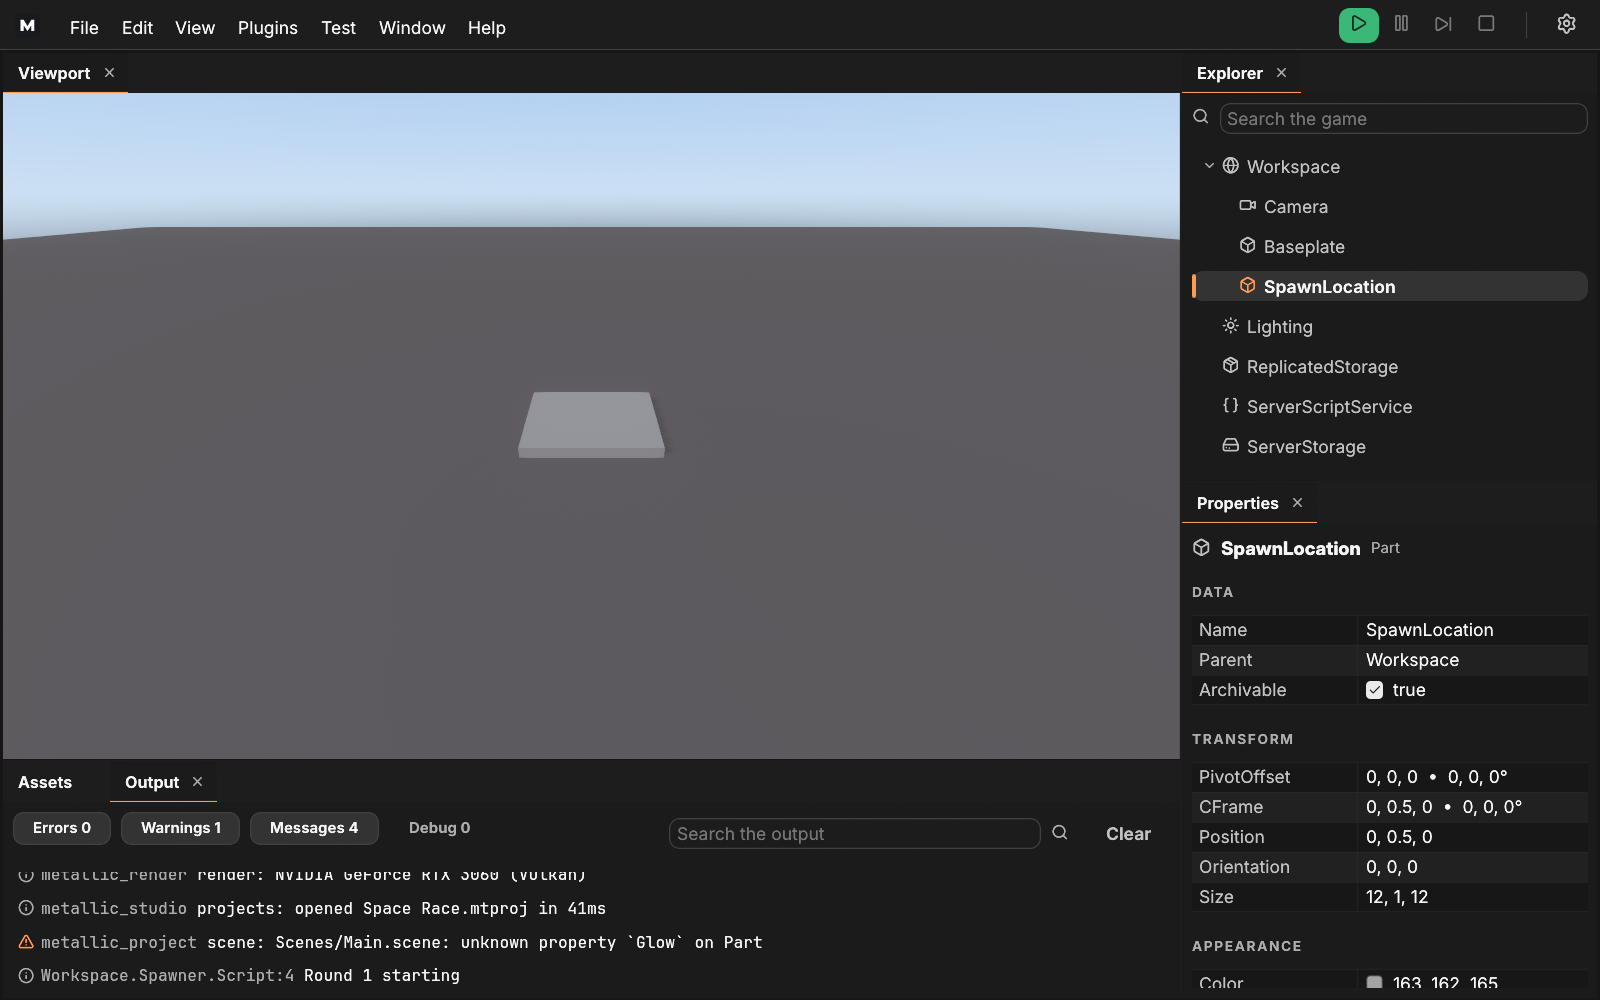
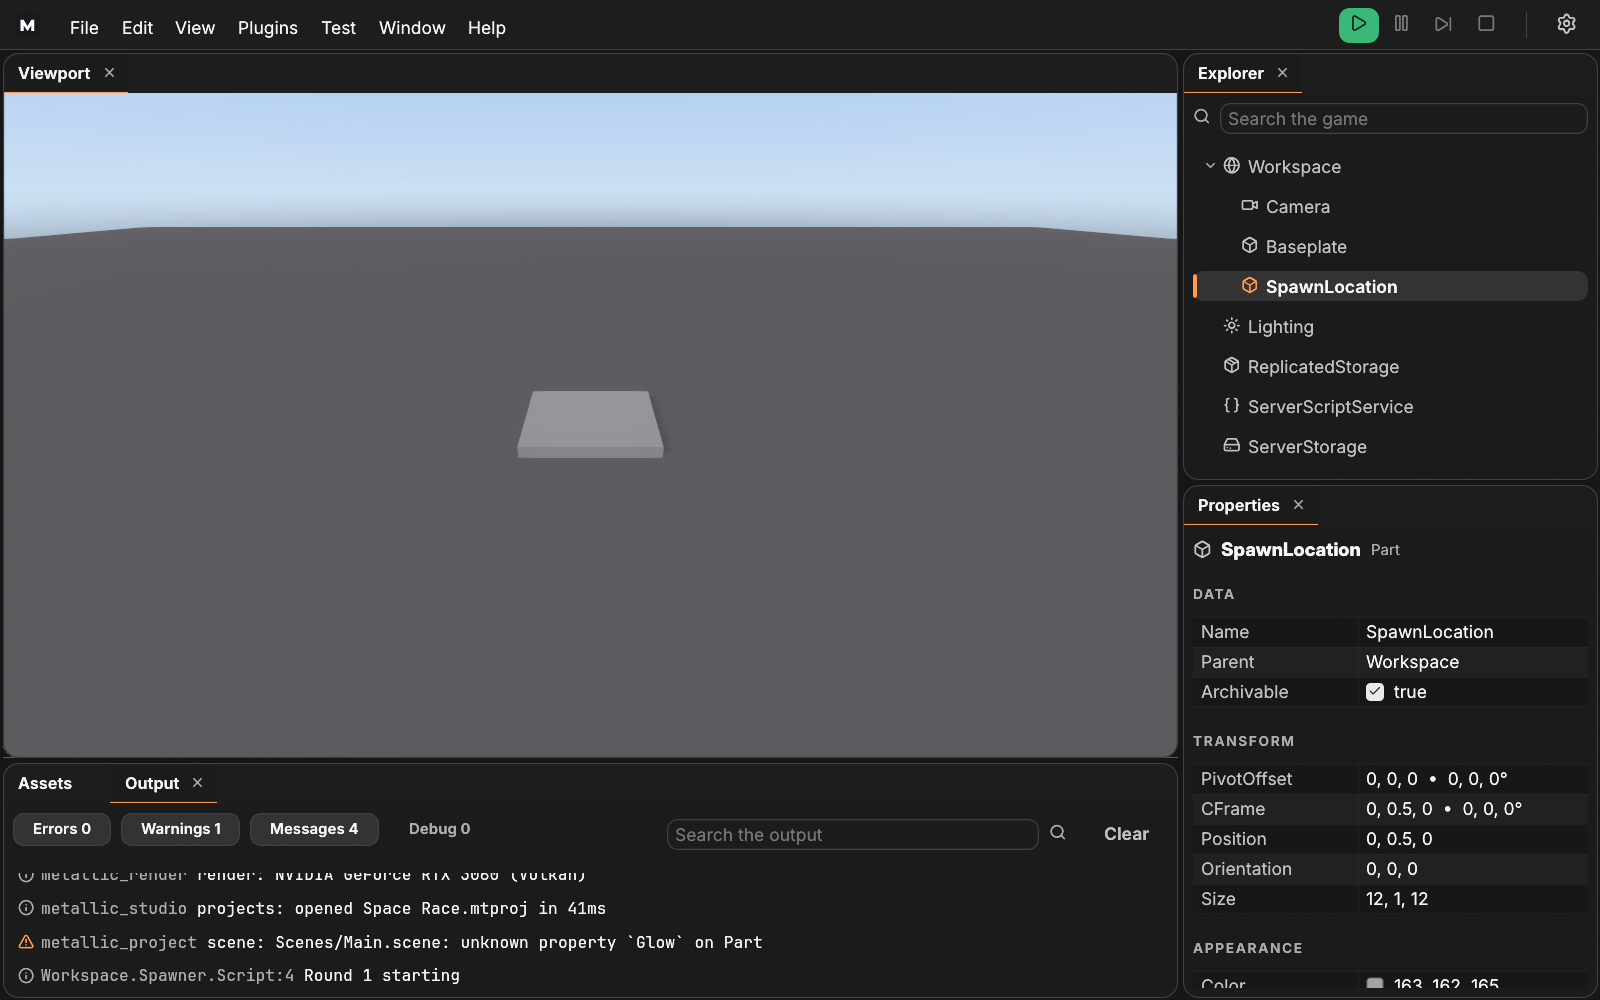
studio: panel borders like the Settings window's, with a setting (#262)

diff --git a/apps/studio/src/dock/mod.rs b/apps/studio/src/dock/mod.rs
@@ -10,6 +10,8 @@
 //!   only when it changed and nothing is being dragged.
 //! - **Dock guides** (#237): while a tab is dragged, squares in the middle of the area under the pointer say where it
 //!   docks, and a drop anywhere but a square or a tab bar leaves the layout as it was ([`guides`]).
+//! - **Panel borders** (#262): with Settings → Appearance → Panel borders on, each group of tabs is outlined with the
+//!   Settings window's border and rounded corners, a little apart from the next.
 
 pub(crate) mod guides;
 pub mod layout;
@@ -20,7 +22,7 @@ use egui::{
     Align2, Color32, CornerRadius, Id, LayerId, Order, Pos2, Rect, Response, Role, Sense, Stroke, Ui, UiBuilder,
     WidgetInfo, pos2, vec2,
 };
-use egui_tiles::{Container, LinearDir, TabState, Tile, TileId, Tiles, Tree, UiResponse};
+use egui_tiles::{Container, ContainerKind, LinearDir, ResizeState, TabState, Tile, TileId, Tiles, Tree, UiResponse};
 use serde::{Deserialize, Serialize};
 
 use crate::editor::EditorState;
@@ -342,8 +344,12 @@ impl Dock {
         // guides or a tab bar say (or nowhere).
         let before = (drag.is_some() && released).then(|| self.tree.clone());
         let colors = current_colors(&ctx);
+        let borders = cx.settings.appearance.panel_borders;
+        let groups = tab_groups(&self.tree);
         let mut behavior = DockBehavior {
             panels: self.panels,
+            borders,
+            groups,
             cx,
             focus: DockFocus {
                 focused: self.focus.focused,
@@ -450,6 +456,10 @@ struct DockBehavior<'a, 'b> {
     close: Vec<TileId>,
     /// The theme's colours: the behaviour's colour hooks are not given a context.
     colors: crate::theme::Colors,
+    /// Whether groups of tabs are outlined (#262).
+    borders: bool,
+    /// The groups of tabs, which the borders outline.
+    groups: Vec<TileId>,
     /// Each tab drawn this frame and where: where a dragged tab goes in a bar it is dropped on.
     tabs: Vec<(TileId, Rect)>,
 }
@@ -479,6 +489,54 @@ const TAB_GAP: f32 = 6.0;
 const CLOSE_SIZE: f32 = 18.0;
 /// The active tab's accent underline (#255: 1 px, thinner than the 3 px bars that mark selected list items).
 pub(crate) const TAB_LINE: f32 = 1.0;
+
+/// The space between outlined groups of tabs (#262).
+const BORDER_GAP: f32 = space::S2;
+/// The points an outline's rounded corner is drawn with.
+const CORNER_STEPS: usize = 8;
+
+/// Every group of tabs in `tree`: what the panel borders outline.
+fn tab_groups(tree: &Tree<PanelId>) -> Vec<TileId> {
+    tree.tiles
+        .iter()
+        .filter(|(_, tile)| matches!(tile, Tile::Container(container) if container.kind() == ContainerKind::Tabs))
+        .map(|(&id, _)| id)
+        .collect()
+}
+
+/// Outlines `rect` as the Settings window is outlined: rounded by `radius`, with the square corners outside the
+/// rounding covered in `ground` (the tab bar and the panel under it are drawn square), then a 1 px `edge`.
+fn paint_border(painter: &egui::Painter, rect: Rect, radius: f32, ground: Color32, edge: Color32) {
+    let radius = radius.min(rect.width() / 2.0).min(rect.height() / 2.0);
+    // Each corner: the square's corner, and the centre its arc turns around, as signs from that centre.
+    let corners = [
+        (rect.left_top(), vec2(1.0, 1.0)),
+        (rect.right_top(), vec2(-1.0, 1.0)),
+        (rect.right_bottom(), vec2(-1.0, -1.0)),
+        (rect.left_bottom(), vec2(1.0, -1.0)),
+    ];
+    for (corner, inward) in corners {
+        let centre = corner + inward * radius;
+        // A fan from the square's corner over the arc: the arc is all in view from there.
+        let mut mesh = egui::Mesh::default();
+        mesh.colored_vertex(corner, ground);
+        for step in 0..=CORNER_STEPS {
+            let angle = std::f32::consts::FRAC_PI_2 * step as f32 / CORNER_STEPS as f32;
+            let at = centre - vec2(inward.x * angle.cos(), inward.y * angle.sin()) * radius;
+            mesh.colored_vertex(at, ground);
+        }
+        for step in 1..=CORNER_STEPS as u32 {
+            mesh.add_triangle(0, step, step + 1);
+        }
+        painter.add(mesh);
+    }
+    painter.rect_stroke(
+        rect,
+        CornerRadius::same(radius as u8),
+        Stroke::new(size::BORDER, edge),
+        egui::StrokeKind::Inside,
+    );
+}
 
 /// Draws one tab (its title and close button; no icon, #255) filling the bar's height, interacting as `id`. Returns
 /// its response and whether its close button was clicked.
@@ -598,7 +656,24 @@ impl egui_tiles::Behavior<PanelId> for DockBehavior<'_, '_> {
     }
 
     fn gap_width(&self, _style: &egui::Style) -> f32 {
-        2.0
+        if self.borders { BORDER_GAP } else { 2.0 }
+    }
+
+    fn resize_stroke(&self, style: &egui::Style, resize_state: ResizeState) -> Stroke {
+        match resize_state {
+            // Outlined groups stand apart on the background; without borders the gap is the tab bars' colour.
+            ResizeState::Idle if self.borders => Stroke::NONE,
+            ResizeState::Idle => Stroke::new(self.gap_width(style), self.colors.palette.header),
+            ResizeState::Hovering => style.visuals.widgets.hovered.fg_stroke,
+            ResizeState::Dragging => style.visuals.widgets.active.fg_stroke,
+        }
+    }
+
+    fn paint_on_top_of_tile(&self, painter: &egui::Painter, _style: &egui::Style, tile_id: TileId, rect: Rect) {
+        if self.borders && self.groups.contains(&tile_id) {
+            let p = self.colors.palette;
+            paint_border(painter, rect, f32::from(radius::PANEL), p.bg, p.border);
+        }
     }
 
     fn tab_bar_color(&self, _visuals: &egui::Visuals) -> Color32 {
@@ -711,6 +786,46 @@ mod tests {
             Some(Tile::Container(Container::Linear(linear))) => (linear.dir, linear.children.clone()),
             _ => panic!("{id}'s bar is not in a split"),
         }
+    }
+
+    #[test]
+    fn panel_borders_outline_each_group_of_tabs_with_rounded_corners() {
+        let dock = Dock::in_memory(PANELS);
+        // Viewport, Assets and Output, Explorer, Properties.
+        assert_eq!(tab_groups(dock.tree()).len(), 4);
+
+        let ctx = egui::Context::default();
+        let rect = Rect::from_min_size(pos2(10.0, 10.0), vec2(200.0, 100.0));
+        let (ground, edge) = (Color32::RED, Color32::BLUE);
+        let mut output = ctx.run_ui(egui::RawInput::default(), |ui| {
+            paint_border(ui.painter(), rect, 12.0, ground, edge);
+        });
+        let shapes: Vec<&egui::Shape> = output.shapes.iter().map(|clipped| &clipped.shape).collect();
+        let corners: Vec<&egui::Mesh> = shapes
+            .iter()
+            .filter_map(|shape| match shape {
+                egui::Shape::Mesh(mesh) => Some(&**mesh),
+                _ => None,
+            })
+            .collect();
+        assert_eq!(corners.len(), 4, "one cover per corner");
+        for mesh in corners {
+            assert!(mesh.vertices.iter().all(|vertex| vertex.color == ground));
+            // Each stays in its corner's 12 × 12 square.
+            let bounds = mesh.calc_bounds();
+            assert!(bounds.width() <= 12.01 && bounds.height() <= 12.01, "{bounds:?}");
+            assert!(rect.expand(0.01).contains_rect(bounds));
+        }
+        let outline = shapes.iter().find_map(|shape| match shape {
+            egui::Shape::Rect(outline) => Some(outline),
+            _ => None,
+        });
+        let outline = outline.expect("an outline");
+        assert_eq!(outline.rect, rect);
+        assert_eq!(outline.corner_radius, CornerRadius::same(12));
+        assert_eq!(outline.stroke, Stroke::new(size::BORDER, edge));
+        // epaint checks the frame's font texture was taken.
+        output.textures_delta.clear();
     }
 
     #[test]

diff --git a/apps/studio/src/settings/mod.rs b/apps/studio/src/settings/mod.rs
@@ -58,6 +58,8 @@ pub struct Appearance {
     pub ui_scale: f32,
     /// Whether fades and eases play.
     pub motion: MotionPreference,
+    /// Whether each group of docked panels is outlined, as the Settings window is (#262).
+    pub panel_borders: bool,
 }
 
 impl Default for Appearance {
@@ -68,6 +70,7 @@ impl Default for Appearance {
             high_contrast: false,
             ui_scale: 1.0,
             motion: MotionPreference::default(),
+            panel_borders: true,
         }
     }
 }
@@ -225,6 +228,7 @@ impl StudioSettings {
                 |v| v.as_str().and_then(MotionPreference::parse),
                 &mut a.motion,
             );
+            read(appearance, "panel_borders", Value::as_bool, &mut a.panel_borders);
         }
         if let Some(rendering) = section("rendering") {
             settings.rendering = rendering_from(rendering);
@@ -252,6 +256,7 @@ impl StudioSettings {
             let scale = (f64::from(a.ui_scale) * 100.0).round() / 100.0;
             appearance.insert("ui_scale".into(), Value::Float(scale));
             appearance.insert("reduce_motion".into(), Value::String(a.motion.as_str().into()));
+            appearance.insert("panel_borders".into(), Value::Boolean(a.panel_borders));
         });
         with_section(&mut document, "rendering", |rendering| {
             for key in RENDERING_KEYS {
@@ -390,6 +395,7 @@ mod tests {
             high_contrast: true,
             ui_scale: 1.25,
             motion: MotionPreference::Reduced,
+            panel_borders: false,
         };
         settings.rendering = GraphicsSettings {
             preset: Preset::High,

diff --git a/apps/studio/src/settings/window.rs b/apps/studio/src/settings/window.rs
@@ -175,6 +175,14 @@ pub static ENTRIES: &[Entry] = &[
         },
     },
     Entry {
+        category: Category::Appearance,
+        name: "Panel borders",
+        description: "Outlines each group of docked panels, as the Settings window is outlined.",
+        control: |ui, s| {
+            toggle(ui, &mut s.appearance.panel_borders, "Panel borders");
+        },
+    },
+    Entry {
         category: Category::Rendering,
         name: "Quality preset",
         description: "How much a viewport frame may cost. Auto measures this machine and holds the frame time.",

diff --git a/docs/adr/0009-studio-foundation.md b/docs/adr/0009-studio-foundation.md
@@ -91,6 +91,8 @@ One window, one state machine: **Splash → Sign in → Projects → Editor**. O
   repaired on load (they are dropped, and the default layout is used if nothing is left). **Reset layout** is in the
   View menu (since #239, in the Window menu of the Roblox-style menu bar: File, Edit, View, Plugins, Test, Window,
   Help, with items for features still to come shown disabled).
+- **Panel borders** (#262): each group of tabs is outlined like the Settings window (1 px border colour, the panel
+  radius, a 4 px gap between groups). Settings → Appearance → Panel borders turns it off (on by default).
 - **Default layout:** Viewport in the centre; Explorer on the left with Assets as a tab beside it; Properties on the
   right; Output along the bottom.
 - **Panels in this slice:** Viewport; Explorer (the DataModel tree, selection, search); Properties (the selected
